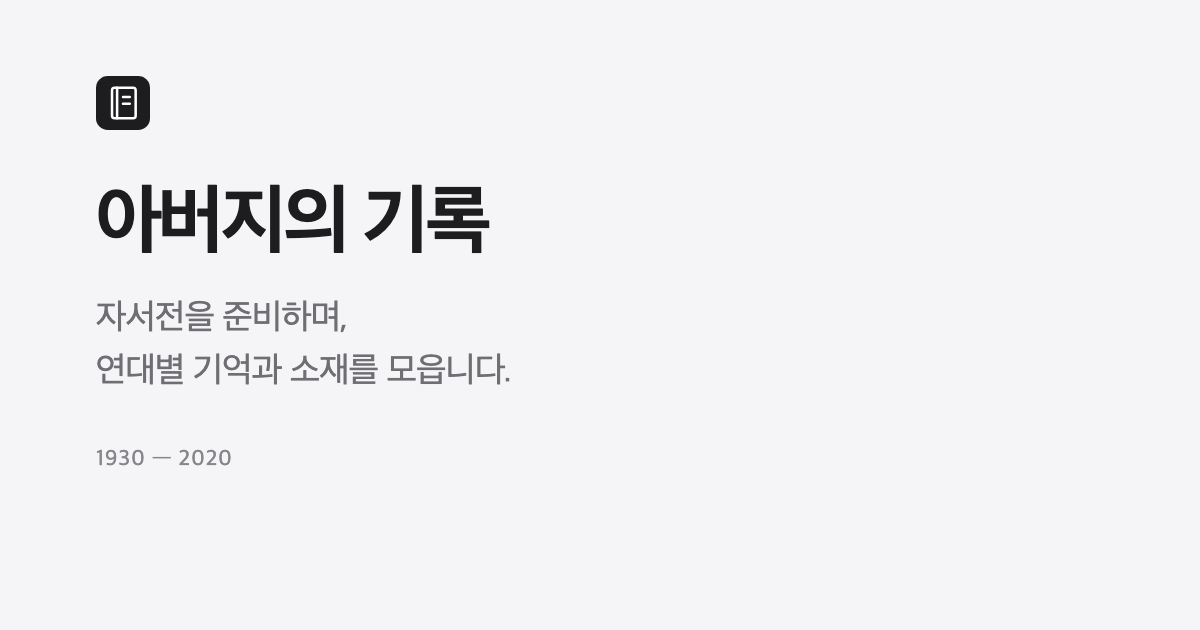
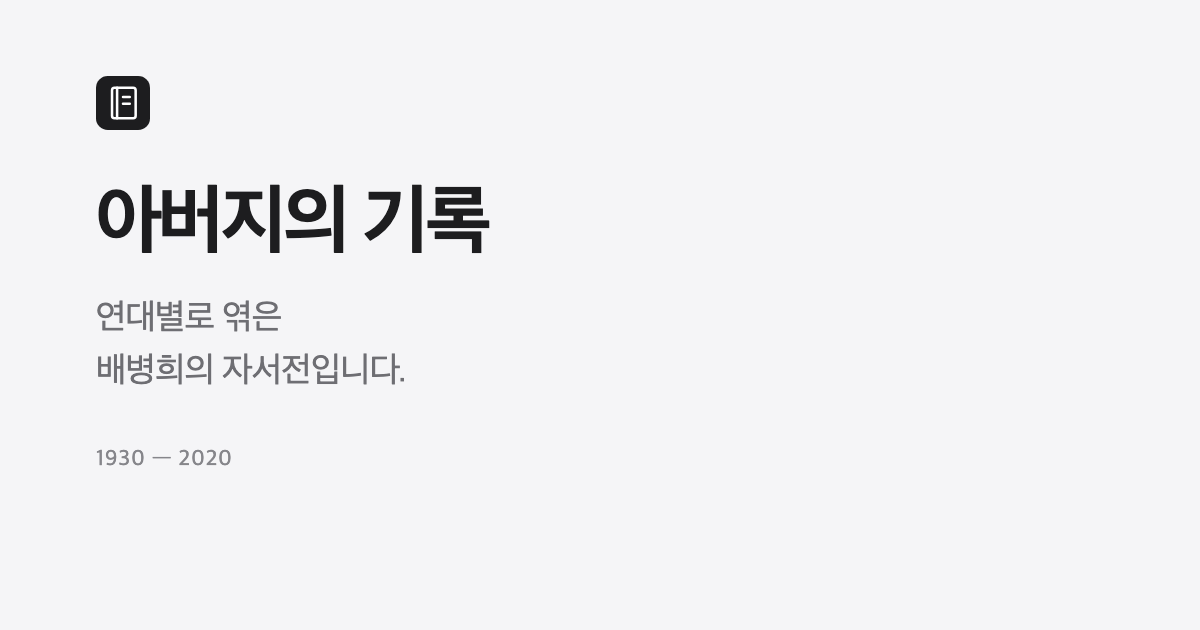
refactor: 1차 자서전 완성에 맞춰 문구·원고 파일명·배포 주소 개편
- 소재 모음 문구를 완성된 자서전 소개로 최소 수정
- 등장인물 설계를 더한 대화 중심 자전적 소설 개편 예정 안내 추가
- 원고 파일명 연대별_서사_소재_정리.md → 배병희_자서전.md
- 배포 경로 /autobio-bae/ → /bae-memoir/ 및 공유 이미지 재생성
- 개정된 에필로그 문구에 맞춰 E2E 테스트 기대값 갱신

Changed region(s): [[0.0617, 0.4524, 0.4317, 0.6333]]

diff --git a/site/.vitepress/theme/Layout.vue b/site/.vitepress/theme/Layout.vue
@@ -215,7 +215,11 @@ onBeforeUnmount(() => {
     <main v-if="isHome" id="main" tabindex="-1" class="home-main">
       <header class="home-heading">
         <h1>아버지의 기록</h1>
-        <p>자서전을 준비하며, 연대별 기억과 소재를 모읍니다.</p>
+        <p>연대별로 엮은 배병희의 자서전입니다.</p>
+        <p class="home-note">
+          앞으로 등장인물 설계를 더해 배병희의 삶을 더욱 풍성하게 담은 대화 중심의 자전적 소설로
+          다시 엮을 예정입니다.
+        </p>
       </header>
       <a v-if="lastRead" class="resume-link" :href="lastRead.url" @click="resumeReading">
         <span
@@ -223,7 +227,7 @@ onBeforeUnmount(() => {
         >
         <Icon name="chevron" :size="16" />
       </a>
-      <nav class="chapter-list" aria-label="연대별 소재">
+      <nav class="chapter-list" aria-label="연대별 이야기">
         <a
           v-for="chapter in catalog.readingOrder"
           :key="chapter.id"
@@ -238,7 +242,7 @@ onBeforeUnmount(() => {
         </a>
       </nav>
       <a class="whole-story-link" :href="withBase(catalog.fullStory.url)"
-        >전체 소재 보기 <Icon name="chevron" :size="14"
+        >전체 이야기 보기 <Icon name="chevron" :size="14"
       /></a>
       <section
         v-if="catalog.documents.length"

diff --git a/playwright.config.ts b/playwright.config.ts
@@ -6,7 +6,7 @@ export default defineConfig({
   fullyParallel: true,
   retries: 0,
   reporter: 'list',
-  use: { baseURL: 'http://127.0.0.1:4183/autobio-bae/', trace: 'retain-on-failure' },
+  use: { baseURL: 'http://127.0.0.1:4183/bae-memoir/', trace: 'retain-on-failure' },
   projects: [
     { name: 'phone', use: { ...devices['iPhone 13'], defaultBrowserType: 'chromium' } },
     {
@@ -22,11 +22,11 @@ export default defineConfig({
   ],
   webServer: {
     command: 'npm run build && npm run preview -- --port 4183',
-    url: 'http://127.0.0.1:4183/autobio-bae/',
+    url: 'http://127.0.0.1:4183/bae-memoir/',
     reuseExistingServer: false,
     timeout: 120000,
     env: {
-      SITE_BASE: '/autobio-bae/',
+      SITE_BASE: '/bae-memoir/',
       VITE_FIREBASE_API_KEY: '',
       VITE_FIREBASE_AUTH_DOMAIN: '',
       VITE_FIREBASE_PROJECT_ID: '',

diff --git a/tests/comments.spec.ts b/tests/comments.spec.ts
@@ -1,7 +1,7 @@
 import { expect, test, type APIRequestContext, type Browser, type Page } from '@playwright/test'
 import { readFileSync } from 'node:fs'
 
-const manuscript = readFileSync(new URL('../연대별_서사_소재_정리.md', import.meta.url), 'utf8')
+const manuscript = readFileSync(new URL('../배병희_자서전.md', import.meta.url), 'utf8')
 const sourceDecades = [...manuscript.matchAll(/^## (\d{4})년대(?=$|[\s:：—–-])/gm)].map(
   (match) => match[1]
 )

diff --git a/site/.vitepress/theme/style.css b/site/.vitepress/theme/style.css
@@ -123,6 +123,12 @@ html:has(dialog[open]) {
   line-height: 1.8;
   word-break: keep-all;
 }
+.home-heading .home-note {
+  margin-top: 6px;
+  color: var(--muted);
+  font-size: 13px;
+  line-height: 1.7;
+}
 .chapter-row {
   display: flex;
   align-items: center;

diff --git a/배병희_자서전.md b/배병희_자서전.md
@@ -4,7 +4,9 @@
 
 1990년대 초, 거래처의 연쇄 부도와 잇따른 도난으로 수억 원의 빚을 떠안아 정미소는 존폐의 기로에 섰다. 그러나 배병희의 결단은 단호했다. 그는 독정리에 터를 잡으며 일군 6만 평 농토 중 마지막 1만 2천 평만 남기고 모든 땅을 내놓았다. 그렇게 마련한 돈으로 이웃 농민들의 볏값을 전액 현금으로 치렀다. 한 해 땀 흘린 이웃들의 수고와 자식들의 학비, 한 집안의 생계가 걸린 벼 한 톨의 무게를 누구보다 깊이 헤아렸기 때문이다.
 
-그의 문은 언제나 이웃들을 향해 열려 있었다. 형편이 어려워 야심한 밤 헛간에서 볍씨를 퍼가는 이웃을 보고도 무안할까 봐 가만히 발길을 돌렸다. 먼 길을 걸어온 나그네와 거친 일터의 일꾼에게도 차별 없이 윗자리를 내어주며 고봉밥을 대접했다. 진흙 도랑에 빠진 이웃의 농기계를 묵묵히 끌어내 주는 일이나, 한밤중 급체로 앓는 이에게 침을 놓아주는 일 역시 마다치 않았다. “사람을 오늘 보고 내일 안 볼 것처럼 대하지 마라.” 그가 평생 가슴에 새기고 실천해 온 이 한마디는 이웃과 더불어 숨 쉬어 온 삶의 원칙이었다.
+그의 문은 언제나 이웃들을 향해 열려 있었다. 형편이 어려워 야심한 밤 헛간에서 볍씨를 퍼가는 이웃을 보고도 무안할까 봐 가만히 발길을 돌렸다. 먼 길을 걸어온 나그네와 거친 일터의 일꾼에게도 고봉밥을 대접했다. 진흙 도랑에 빠진 이웃의 농기계를 묵묵히 끌어내 주는 일이나, 한밤중 급체로 앓는 이에게 침을 놓아주는 일 역시 마다치 않았다. 
+
+“사람을 오늘 보고 내일 안 볼 것처럼 대하지 마라.” 그가 평생 가슴에 새기고 실천해 온 이 한마디는 이웃과 더불어 숨 쉬어 온 삶의 원칙이었다.
 
 그 세월의 곁에는 가마솥 장작불을 지피며 수십 명 일꾼의 밥상을 차려내고 살림을 지켜낸 아내의 묵묵한 헌신이 있었다. 어린 시절 배움의 기회를 놓쳤던 아쉬움은 평생 가슴에 남았다. 그랬기에 자식들에게만큼은 배움의 길을 열어주고자 온 힘을 다해 뒷바라지했다. 그 부모의 정성 또한 삶을 지탱한 힘이었다.
 
@@ -409,9 +411,9 @@
 독정리 간척지에서 짠물을 빼내며 모를 살려내던 날들, 부도 직전의 정미소를 인수해 밤낮으로 기름때를 묻히던 시간들이 스쳐 지나간다. 1990년대 연쇄 부도와 도난 속에서도 땅을 팔아 농민들의 볏값을 온전히 치러냈던 결단도 있었다. 지난 세월 그를 지탱한 것은 약삭빠른 계산이 아니라 정직한 땀과 신뢰였다.
 
 “사람을 오늘 보고 내일 안 볼 것처럼 대하지 마라.”
-“원수라도 너그럽게 대하라.”
 
-그가 평생 품어온 말들은 이웃과 더불어 살아가는 지혜였다. 헛간에서 볍씨를 가져가던 이웃을 모른 척해주고, 찾아온 누구에게나 따뜻한 밥을 내어주었다. 진흙탕에 빠진 이웃의 농기계를 묵묵히 건져준 일도 마찬가지였다. 이 모든 행동은 사람을 귀하게 여기는 그의 원칙에서 비롯된 것이었다.
+
+그가 평생 품어온 이 말은 이웃과 더불어 살아가는 지혜였다. 헛간에서 볍씨를 가져가던 이웃을 모른 척해주고, 찾아온 누구에게나 따뜻한 밥을 내어주었다. 진흙탕에 빠진 이웃의 농기계를 묵묵히 건져준 일도 마찬가지였다. 이 모든 행동은 사람을 귀하게 여기는 그의 원칙에서 비롯된 것이었다.
 
 가마솥 밥을 지으며 수십 명 일꾼의 식사를 챙기고 살림을 떠받쳐주었던 아내에 대한 그리움은 가슴 한구석에 남아 있다. 하지만 네 아들이 아버지의 성실함을 이어받아 가업을 훌륭히 키워냈다. 경영과 영업, 계약재배와 정밀 가공으로 역할을 나누어 든든히 일터를 지키는 가족들이 있기에, 노년의 황혼은 깊은 보람으로 물든다.
 

diff --git a/site/index.md b/site/index.md
@@ -1,6 +1,6 @@
 ---
 title: 아버지의 기록
-description: 자서전을 준비하며, 연대별 기억과 소재를 모읍니다.
+description: 연대별로 엮은 배병희의 자서전입니다.
 layout: home
 titleTemplate: false
 ---
